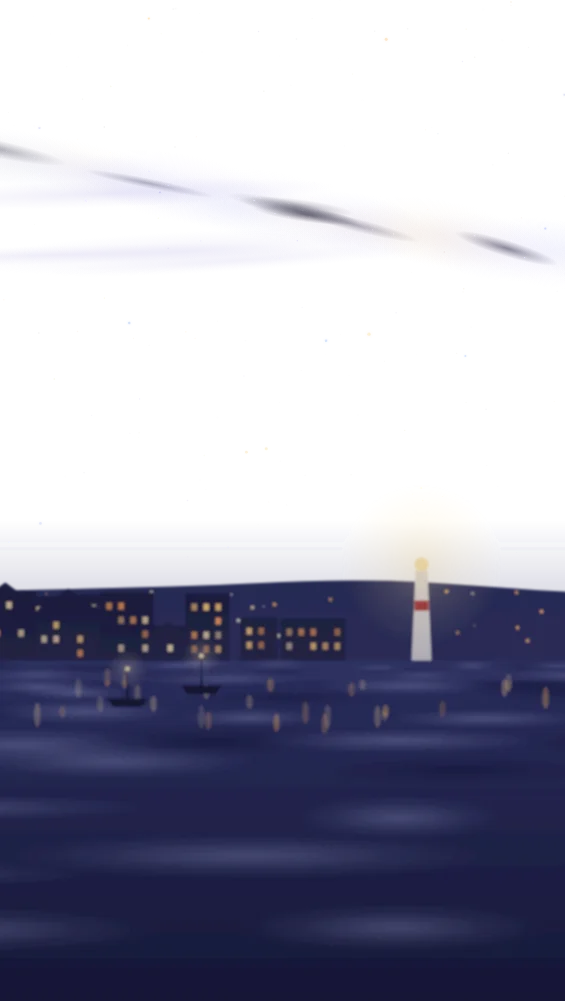
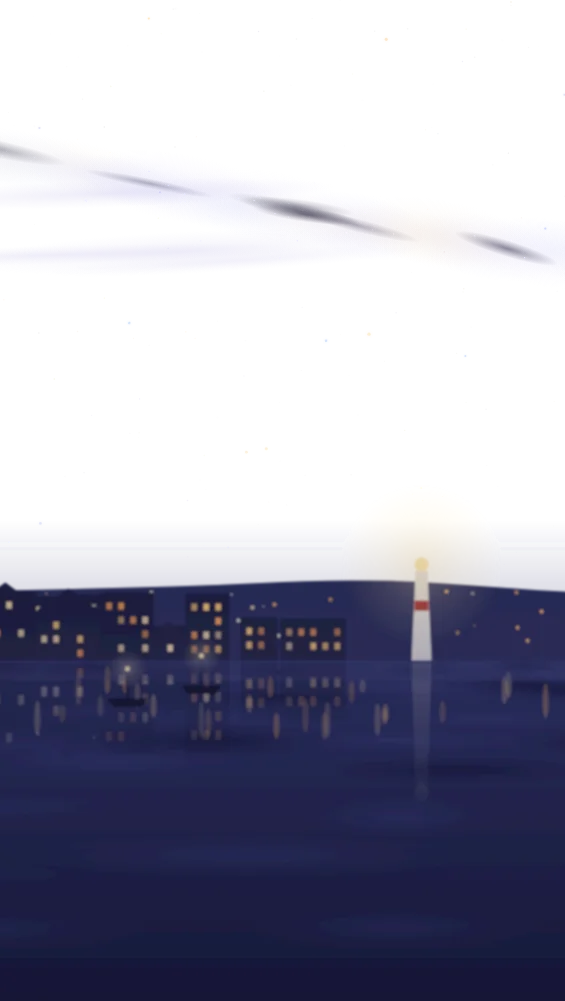
Night sea with reflections
Claude-Session: https://claude.ai/code/session_01EHtmNVvLo6L45VFzzqfGpi

diff --git a/assets/js/nature.js b/assets/js/nature.js
@@ -1778,9 +1778,9 @@ function seaSheen(x0, x1, hz, y1, g, { light = '#fbe4cf', dark = '#5f8f93', la =
   return s;
 }
 // 夕日が海に落とす光の道（動かない下地）：水平線から手前へ、横長のやわらかな光の帯が広がる。揺らぎは museum.js が重ねる
-function sunColumn(x, hz, y1, c = ['#fff0cf', '#ffe2b4', '#ffd9a6']) {
+function sunColumn(x, hz, y1, c = ['#fff0cf', '#ffe2b4', '#ffd9a6'], k = 1) {
   const id = `sc${gid++}`;
-  let s = `<defs><radialGradient id="${id}"><stop offset="0" stop-color="${c[0]}" stop-opacity=".55"/><stop offset=".5" stop-color="${c[1]}" stop-opacity=".2"/><stop offset="1" stop-color="${c[2]}" stop-opacity="0"/></radialGradient></defs>`;
+  let s = `<defs><radialGradient id="${id}"><stop offset="0" stop-color="${c[0]}" stop-opacity="${n2(.55 * k)}"/><stop offset=".5" stop-color="${c[1]}" stop-opacity="${n2(.2 * k)}"/><stop offset="1" stop-color="${c[2]}" stop-opacity="0"/></radialGradient></defs>`;
   // 横長の帯を重ねず、縦にやわらかく広がる光の面にする（線に見えないように）
   for (let i = 0; i < 9; i++) { const t = i / 8, y = hz + .8 + (y1 - hz) * t * t, w = 1.6 + t * 8; s += `<ellipse cx="${n1(x + Math.sin(i * 2.3) * t * 1.2)}" cy="${n1(y)}" rx="${n1(w)}" ry="${n2(1 + t * 3.2)}" fill="url(#${id})" opacity="${n2(.9 - t * .4)}"/>`; }
   return s;
@@ -1984,21 +1984,28 @@ export function sceneNight(W, stops) {
   const skyDom = { moon: { x: mx, y: 16, r: 4.5, kind: 'crescent' }, bright: SKY.bright.filter(([x, y]) => Math.hypot(x - mx, y - 16) > 12) };
   far += `<path d="M-5 106L-5 ${hz - 4}${smoothD(Array.from({ length: 9 }, (_, i) => [-5 + (fw + 10) * i / 8, hz - 6 + R(-3, 2)]))}L${n1(fw + 5)} 106Z" fill="#282c55"/>`;
   for (let i = 0; i < fw / 1.4; i++) far += `<circle cx="${n1(R(0, fw))}" cy="${n1(R(hz - 7, hz - 1))}" r="${n1(R(.1, .22))}" fill="${pick(['#ffd79a', '#ffb45a', '#fff1d0'])}" opacity="${n1(R(.4, .9) * 100) / 100}"/>`;
-  for (let s = 0; s < stops; s += 1) { const x = at(W, FACTORS.far)(s, W * R(.15, .85)); far += townRow(x - R(10, 16), x + R(10, 16), hz, '#1d1f3c', { hmin: 2.5, hmax: 7 }); }
+  let towns = ''; // 水面に逆さに映すので、町の並びをとっておく
+  for (let s = 0; s < stops; s += 1) { const x = at(W, FACTORS.far)(s, W * R(.15, .85)); const tr = townRow(x - R(10, 16), x + R(10, 16), hz, '#1d1f3c', { hmin: 2.5, hmax: 7 }); far += tr; towns += tr; }
   // 観覧車：対岸の水ぎわに立つ（脚の足もとが水平線）。museum.js が脚・回る輪・ゴンドラ・水面の映り込みを置く
   // 作品と作品のあいだで立ち止まったとき、画面の真ん中（作品のない所）に見える位置。狭い画面では小さく
   const ferris = { x: at(W, FACTORS.far)(Math.max(1, Math.floor(stops / 2)) + .5, W * .5), r: W < 80 ? 7 : 10, base: hz };
   ferris.y = ferris.base - ferris.r - 3.8; // いちばん下のゴンドラが足もとの台にかからない高さ
   const lighthouse = { x: at(W, FACTORS.far)(stops - 1, W * .85), y: hz - 9.6 };
-  { const lx = lighthouse.x; far += `<path d="M${n1(lx - 1)} ${hz}L${n1(lx - .6)} ${hz - 9}H${n1(lx + .6)}L${n1(lx + 1)} ${hz}Z" fill="#e8e2d8"/><path d="M${n1(lx - .7)} ${hz - 6}h1.4v1h-1.4Z" fill="#b3261e"/><circle cx="${n1(lx)}" cy="${hz - 9.6}" r=".7" fill="#ffe7a8"/>` + rglow(lx, hz - 9.6, 8, '#ffe7a8', .35); }
+  { const lx = lighthouse.x; towns += `<path d="M${n1(lx - 1)} ${hz}L${n1(lx - .6)} ${hz - 9}H${n1(lx + .6)}L${n1(lx + 1)} ${hz}Z" fill="#8e8a98"/><circle cx="${n1(lx)}" cy="${hz - 9.6}" r=".7" fill="#ffe7a8"/>`; far += `<path d="M${n1(lx - 1)} ${hz}L${n1(lx - .6)} ${hz - 9}H${n1(lx + .6)}L${n1(lx + 1)} ${hz}Z" fill="#e8e2d8"/><path d="M${n1(lx - .7)} ${hz - 6}h1.4v1h-1.4Z" fill="#b3261e"/><circle cx="${n1(lx)}" cy="${hz - 9.6}" r=".7" fill="#ffe7a8"/>` + rglow(lx, hz - 9.6, 8, '#ffe7a8', .35); }
   const [sg, sd] = lgrad([[0, '#2d3263'], [1, '#141733']]);
   far += `<defs>${sd}</defs><rect x="-5" y="${hz}" width="${n1(fw + 10)}" height="${n1(106 - hz)}" fill="url(#${sg})"/>`;
   // 水面：白い横線（遠い波・月の光の粒）はやめて、やわらかな光と影のゆらぎと、月の光の道に（乱数の呼び出しは残す）
   glitter(mx, hz + .5, 100, '#fdf1d6', { spread: .25, n: 110, a: .7 });
   waveLines(-5, fw + 5, hz + 1, 100, '#8f98c9', Math.round(fw));
-  { const gS = hrng(fw + 9.1); far += seaSheen(-5, fw + 5, hz, 96, gS, { light: '#9aa3d6', dark: '#0f1230', la: .32, da: .4 }) + sunColumn(mx, hz, 88, ['#f6f0d8', '#d8dcf2', '#b8c0e8']); }
+  // 水面のゆらぎは白くしない（紺の濃淡だけ）。光るのは月明かりと建物の映り込みだけにする
+  { const gS = hrng(fw + 9.1); far += seaSheen(-5, fw + 5, hz, 96, gS, { light: '#3a4180', dark: '#0b0d26', la: .3, da: .38 }); }
+  // 建物の映り込み：町並みと灯台を上下さかさに、少し縦に伸ばして、水平線から下へ淡く消えていく形で
+  { const mk = `rf${gid++}`, [mg, md] = lgrad([[0, '#ffffff', .75], [.35, '#ffffff', .35], [1, '#ffffff', 0]]);
+    far += `<defs>${md}<mask id="${mk}" maskUnits="userSpaceOnUse" x="-5" y="${hz}" width="${n1(fw + 10)}" height="16"><rect x="-5" y="${hz}" width="${n1(fw + 10)}" height="16" fill="url(#${mg})"/></mask></defs><g mask="url(#${mk})" opacity=".55"><g transform="translate(0 ${n1(hz * 2.35 + .2)}) scale(1 -1.35)">${towns}</g></g>`; }
+  // 月明かりの反射：月の真下に、淡い黄みの光が水平線から手前へひろがる（白く強くしない）
+  far += sunColumn(mx, hz, 90, ['#efe3bd', '#b9b6d2', '#8e94c4'], .6);
   // 町の灯りの映り込み：線ではなく、縦に少し伸びたぼけた光
-  for (let i = 0; i < fw / 2.2; i++) { const x = R(0, fw), y = R(hz + .8, hz + 6), l = R(.6, 1.6), c = pick(['#ffd79a', '#ffb45a']), o = R(.25, .55); far += `<ellipse cx="${n1(x)}" cy="${n1(y + l / 2)}" rx=".32" ry="${n1(l * .75)}" fill="${c}" opacity="${n2(o * .6)}"/>`; }
+  for (let i = 0; i < fw / 2.2; i++) { const x = R(0, fw), y = R(hz + .8, hz + 6), l = R(.6, 1.6), c = pick(['#ffd79a', '#ffb45a']), o = R(.25, .55); far += `<ellipse cx="${n1(x)}" cy="${n1(y + l * .7)}" rx=".3" ry="${n1(l * 1.1)}" fill="${c}" opacity="${n2(o * .45)}"/>`; }
   for (let k = 0; k < Math.max(2, Math.round(fw / 60)); k++) { const x = R(fw * .05, fw * .95), y = hz + R(2.5, 5); far += `<path d="M${n1(x - 2)} ${n1(y)}h4l-.6 .8h-2.8Z" fill="#141733"/><path d="M${n1(x)} ${n1(y)}v-3" stroke="#141733" stroke-width=".2"/><circle cx="${n1(x)}" cy="${n1(y - 3)}" r=".25" fill="#ffe7a8"/>` + rglow(x, y - 3, 2, '#ffe7a8', .35); }
   far += haze(-10, fw + 10, hz - 14, hz + 2, '#3c3f73', 0, .35);
   // 中景：海沿いの遊歩道（手すり、街灯、ヤシ、電球の紐）と植え込み

diff --git a/assets/css/museum.css b/assets/css/museum.css
@@ -962,7 +962,7 @@ body.choosing .loader-choose { opacity: 1; transform: none; pointer-events: auto
 /* 夕凪の浜：海の面のゆらぎ（横長のぼかした光と影が、左右に寄せては返して明滅） */
 .swell { border-radius: 50%; background: radial-gradient(closest-side, rgba(252, 232, 212, .38), rgba(252, 232, 212, .1) 55%, rgba(252, 232, 212, 0)); animation: swell 7s ease-in-out infinite alternate; will-change: transform, opacity; }
 .swell.dk { background: radial-gradient(closest-side, rgba(86, 136, 140, .3), rgba(86, 136, 140, .08) 55%, rgba(86, 136, 140, 0)); }
-.scene-night .swell { background: radial-gradient(closest-side, rgba(170, 182, 236, .26), rgba(170, 182, 236, .07) 55%, rgba(170, 182, 236, 0)); }
+.scene-night .swell { background: radial-gradient(closest-side, rgba(70, 80, 150, .32), rgba(70, 80, 150, .08) 55%, rgba(70, 80, 150, 0)); } /* 夜の庭の海は白くしない（紺の濃淡だけ） */
 .scene-night .swell.dk { background: radial-gradient(closest-side, rgba(12, 14, 40, .38), rgba(12, 14, 40, .1) 55%, rgba(12, 14, 40, 0)); }
 .room.moonlit .swell { background: radial-gradient(closest-side, rgba(196, 208, 242, .32), rgba(196, 208, 242, .1) 60%, rgba(196, 208, 242, 0)); }
 .room.moonlit .swell.dk { background: radial-gradient(closest-side, rgba(18, 26, 64, .35), rgba(18, 26, 64, .1) 60%, rgba(18, 26, 64, 0)); }
@@ -1104,4 +1104,4 @@ body.forest-night .farewell .fw-glow { opacity: 1; }
 .wclock .hh { width: 7%; height: 23%; margin-left: -3.5%; }
 .wclock .mh { width: 4.5%; height: 36%; margin-left: -2.25%; }
 .wclock .cap { width: 12%; height: 12%; margin: 0 0 -6% -6%; border-radius: 50%; background: #b8925e; transform: none; }
-.sunpath.moon i { background: radial-gradient(closest-side, rgba(250, 246, 226, .5), rgba(214, 222, 246, .18) 50%, rgba(200, 210, 240, 0)); } /* 夜は月の光の道（白く冷たい光） */
+.sunpath.moon i { background: radial-gradient(closest-side, rgba(240, 228, 190, .34), rgba(190, 188, 220, .12) 50%, rgba(160, 166, 210, 0)); } /* 夜は月の光の道（白く冷たい光） */
